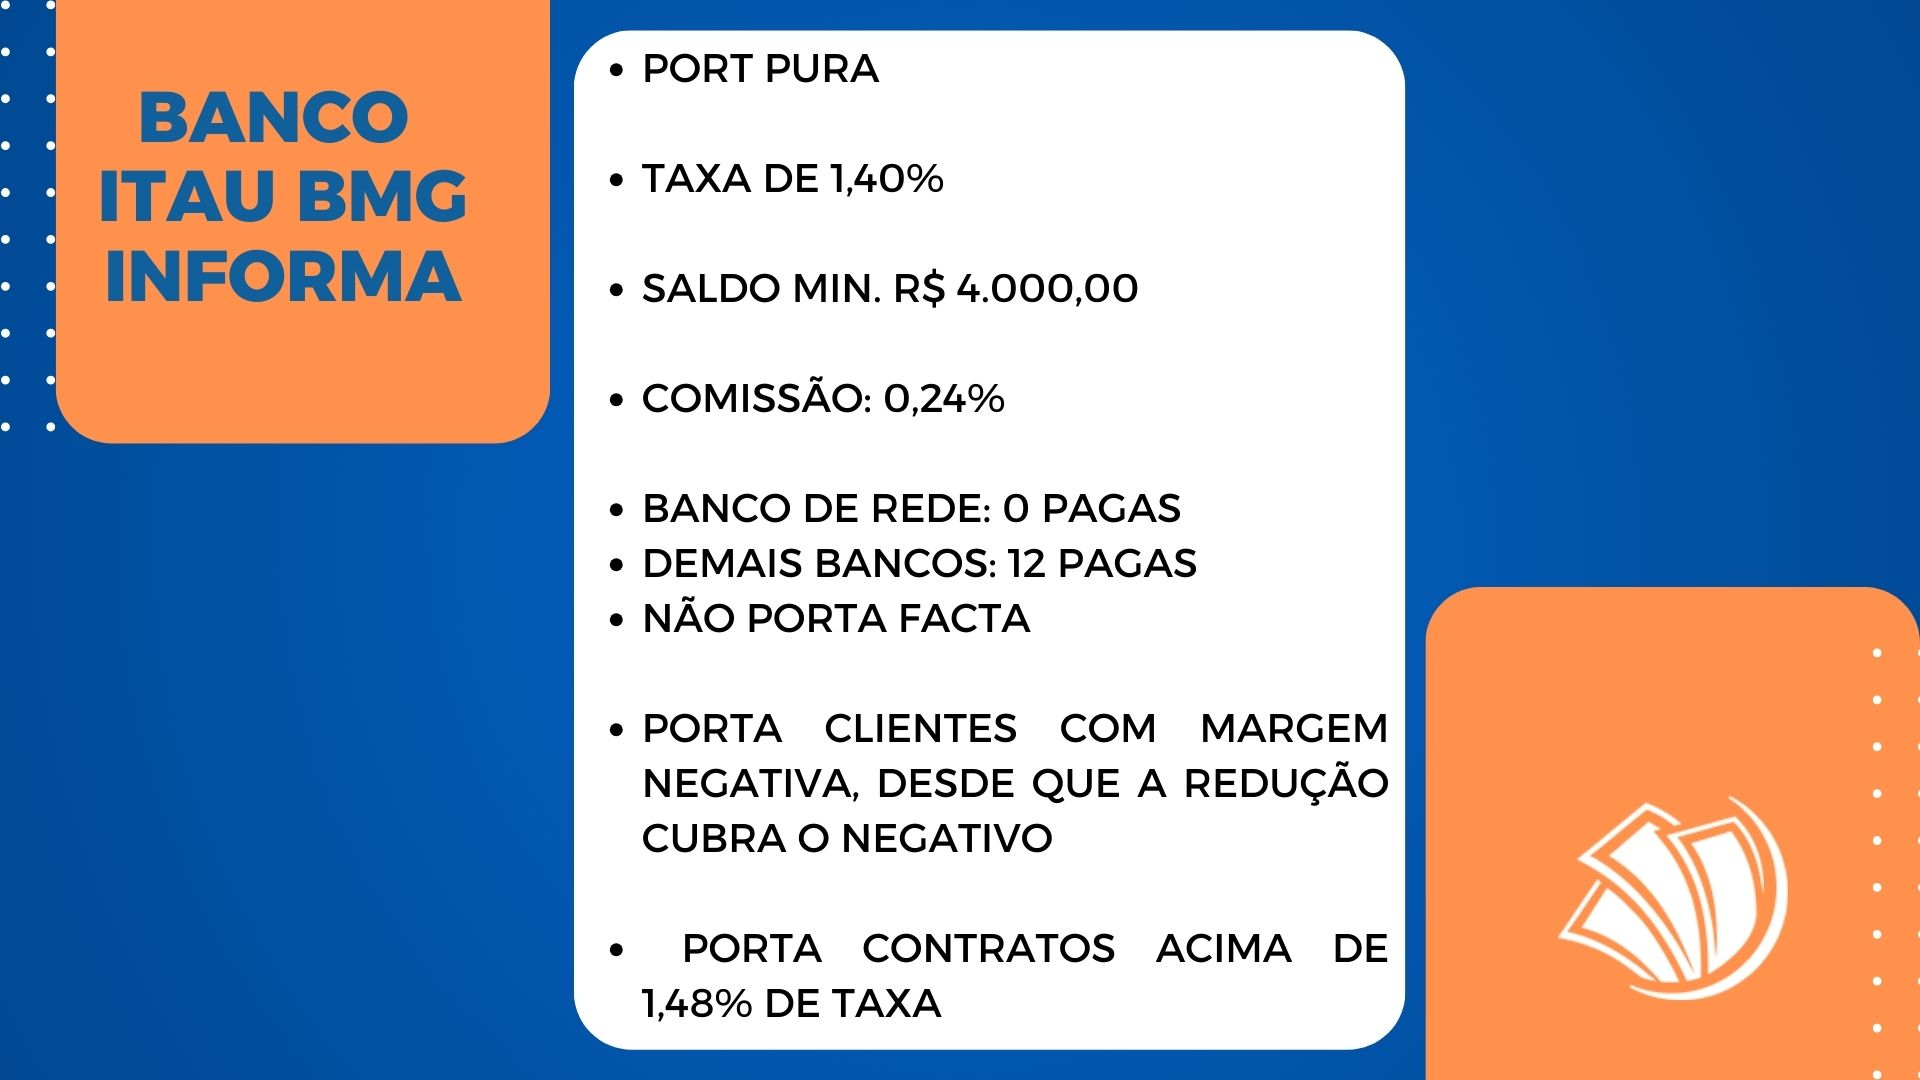
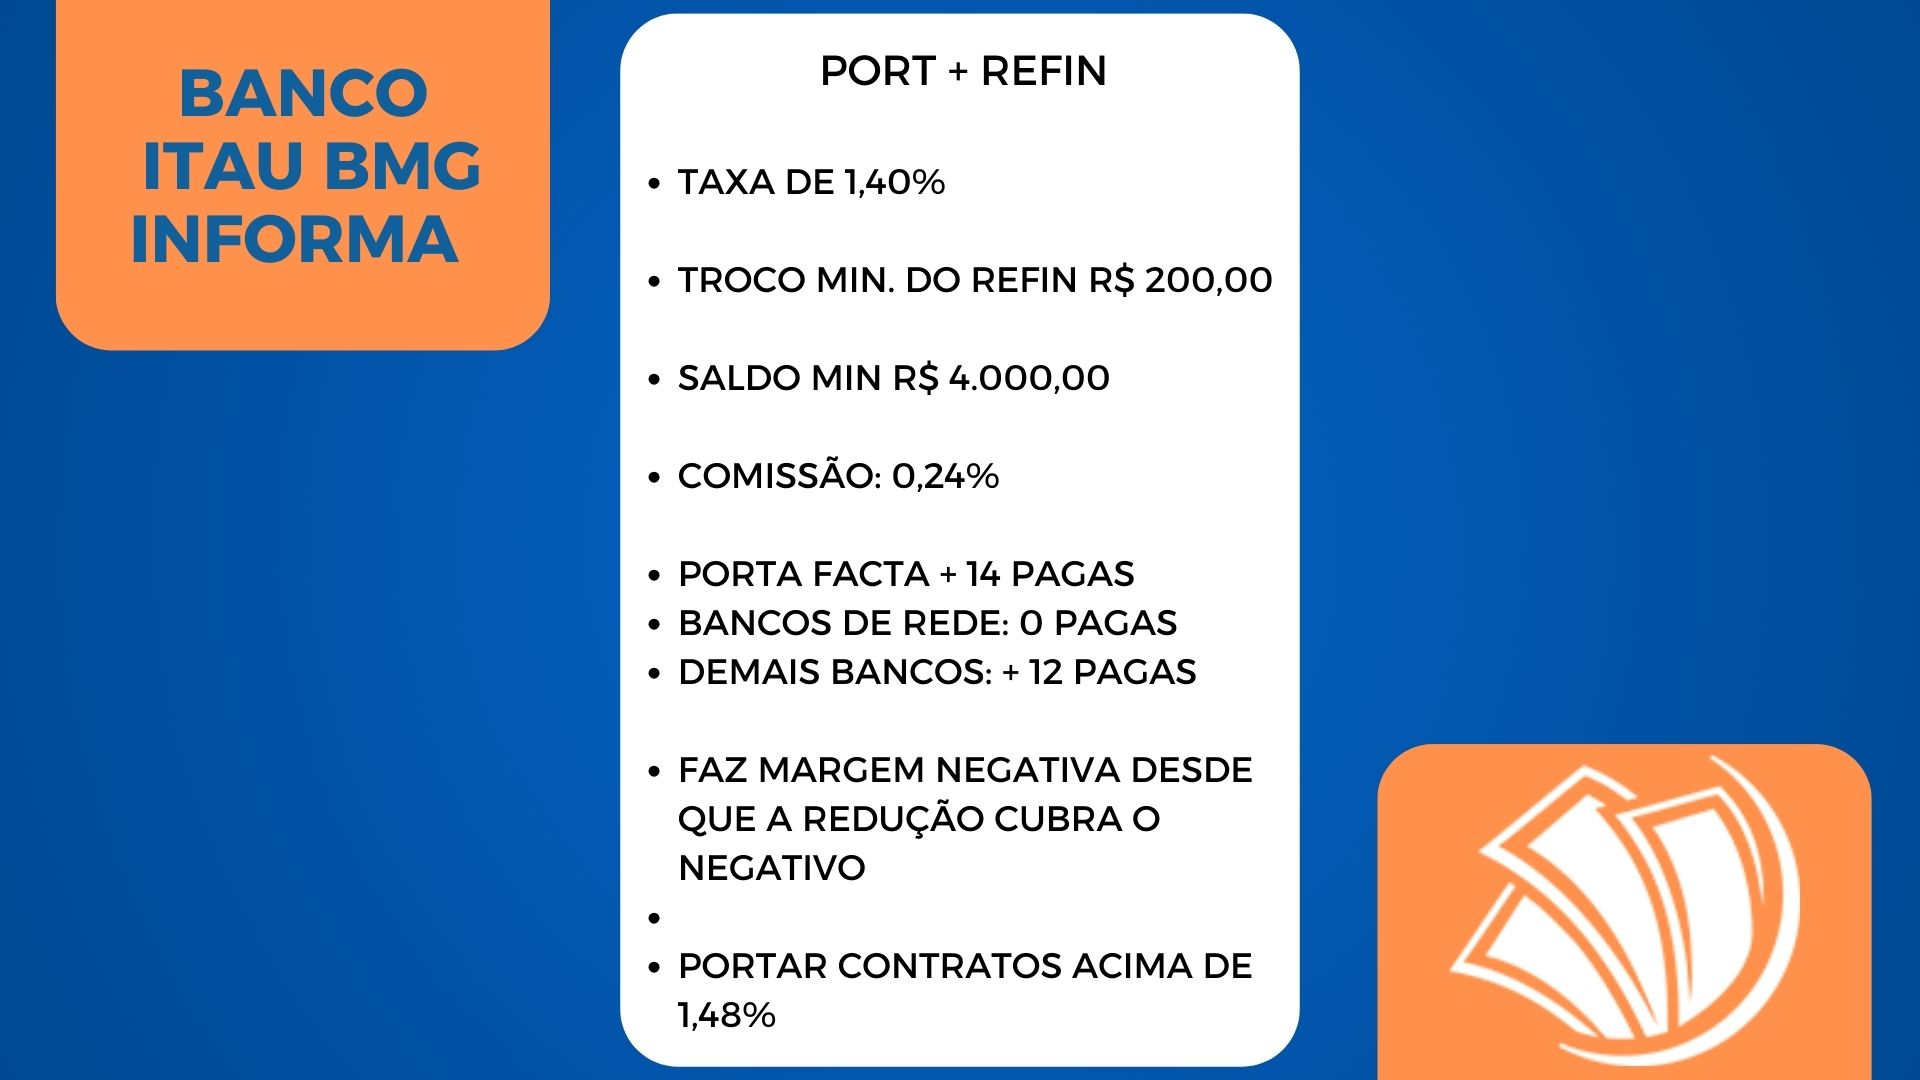
29052024²

Changed region(s): [[0.0, 0.0, 1.0, 1.0]]

diff --git a/index.html b/index.html
@@ -50,9 +50,9 @@
 			<div class="carousel-item" data-bs-interval="15000">
 				<img src="img/12.jpeg" class="d-block w-100">
 			</div>
-			<!-- <div class="carousel-item" data-bs-interval="15000">
+			<div class="carousel-item" data-bs-interval="15000">
 				<img src="img/13.jpg" class="d-block w-100">
-			</div> -->
+			</div>
 		</div>
 		<button class="carousel-control-prev" type="button" data-bs-target="#carouselExampleFade" data-bs-slide="prev">
 		</button>
